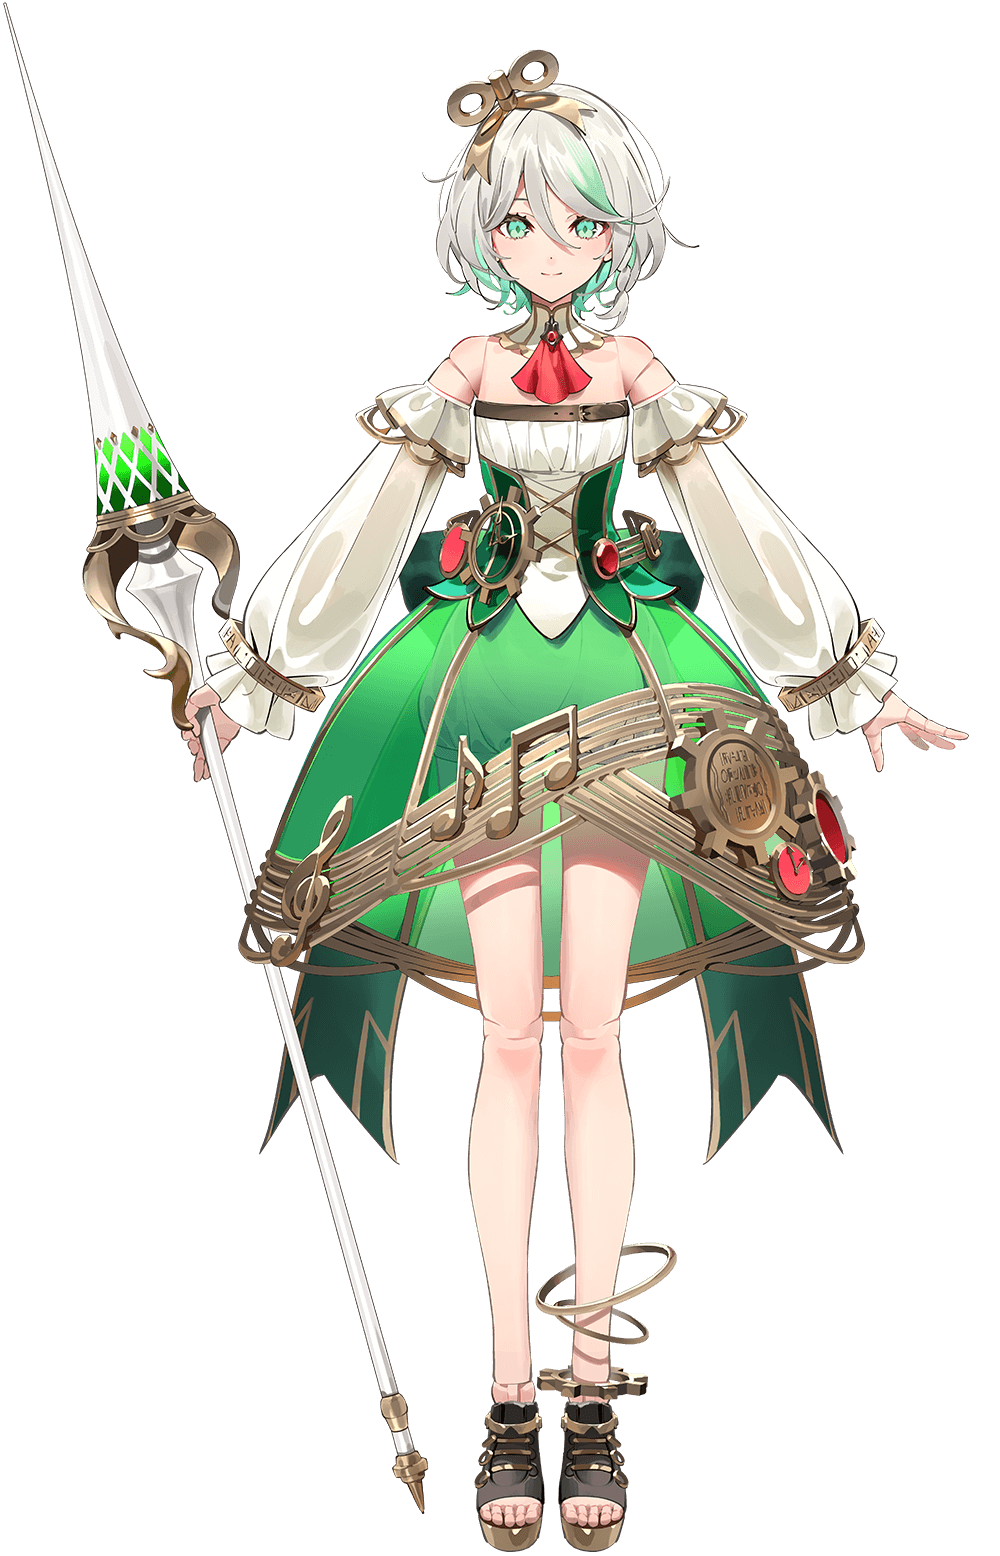
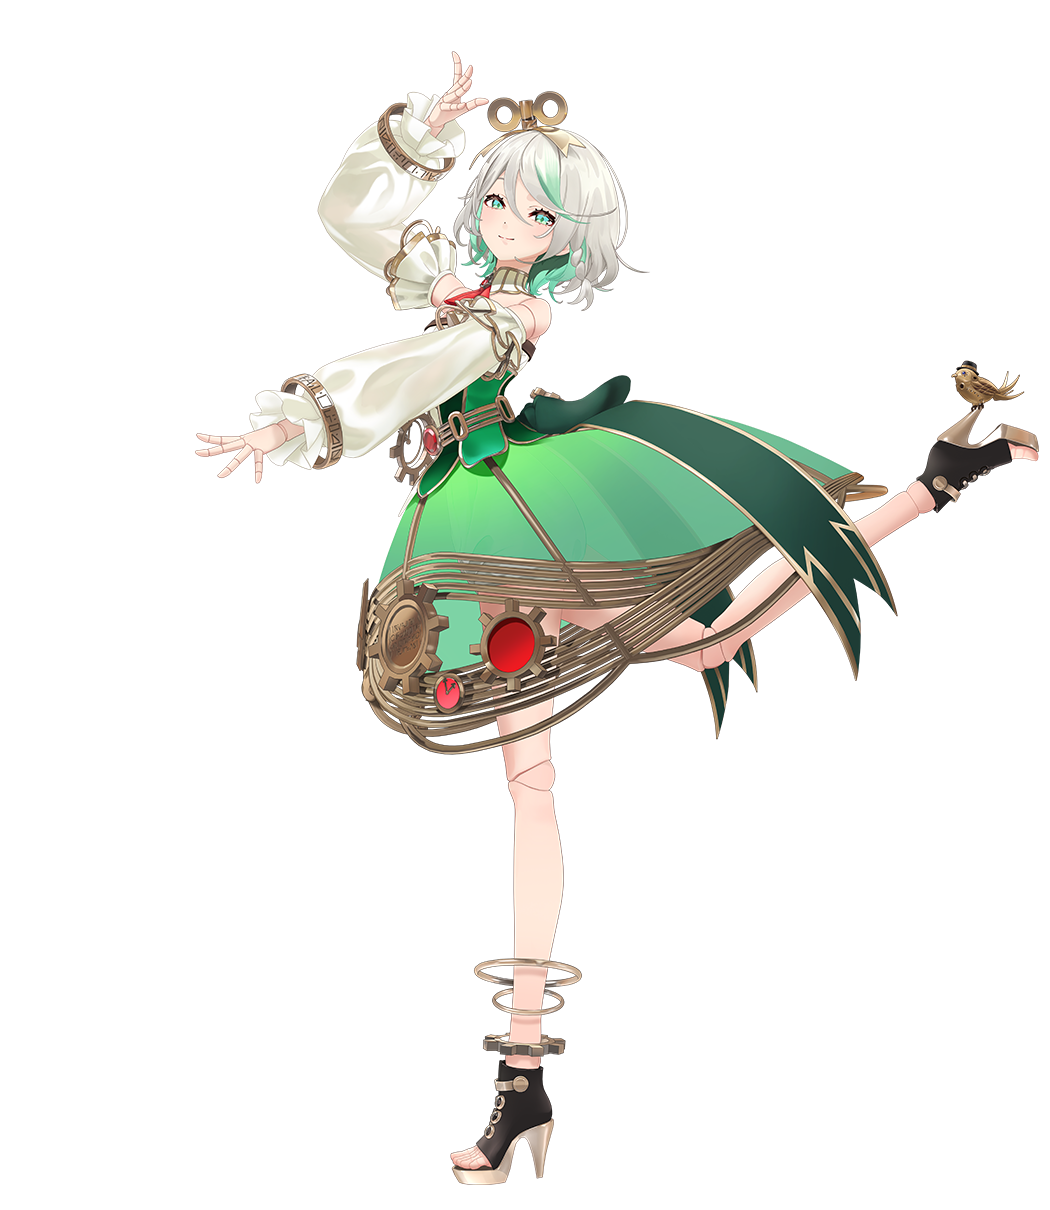
Mudar fotos da holoJustice para sua versão 3D

diff --git a/js/bancoTalentos.js b/js/bancoTalentos.js
@@ -1019,7 +1019,7 @@ const talentos = [
         grupo: 'Justice',
         canal: '@holoen_erbloodflame',
         outfits: [
-            `${pastaFotosPefil}/liz.png`,
+            `${pastaFotosPefil}/liz.webp`,
             `${pastaFotosPefil}/liz2.png`,
         ],
         clipes: [
@@ -1067,7 +1067,7 @@ const talentos = [
         grupo: 'Justice',
         canal: '@holoen_gigimurin',
         outfits: [
-            `${pastaFotosPefil}/gigi.png`,
+            `${pastaFotosPefil}/gigi.webp`,
             `${pastaFotosPefil}/gigi2.png`,
         ],
         clipes: [
@@ -1238,7 +1238,7 @@ const fotos = [
     ],
 
     [ // Justice
-        [`${pastaFotosPefil}/liz.png`, 'Elizabeth'], [`${pastaFotosPefil}/gigi.png`, 'Gigi'], [`${pastaFotosPefil}/ceci.png`, 'Cecilia'],
+        [`${pastaFotosPefil}/liz.webp`, 'Elizabeth'], [`${pastaFotosPefil}/gigi.webp`, 'Gigi'], [`${pastaFotosPefil}/ceci.png`, 'Cecilia'],
         [`${pastaFotosPefil}/raora.png`, 'Raora']
     ]
 ];
